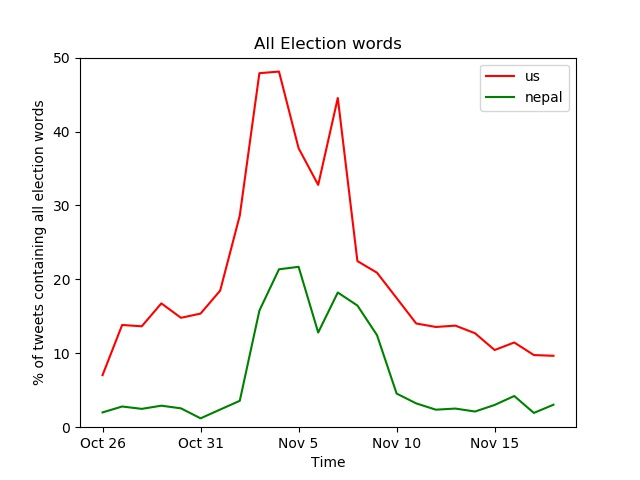
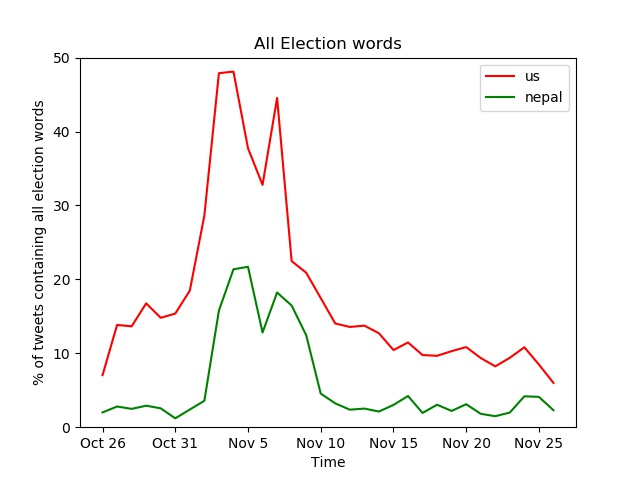
Update word frequency plots to include data until Nov 26

diff --git a/process.py b/process.py
@@ -183,7 +183,7 @@ def plotCommonWords():
         percentageList_us = [round(100 * (item1 / item2), 2) for item1, item2 in zip(commonWordCount_us[word], tweetCount_us)]
         percentageList_nepal = [round(100 * (item1 / item2), 2) for item1, item2 in zip(commonWordCount_nepal[word], tweetCount_nepal)]
         f = plt.figure()
-        plt.xticks([0, 5, 10, 15, 20], ['oct 26', 'oct 31', 'nov 5', 'nov 10', 'nov 15', 'nov 20'])
+        plt.xticks([0, 5, 10, 15, 20, 25, 30], ['oct 26', 'oct 31', 'nov 5', 'nov 10', 'nov 15', 'nov 20', 'nov 25'])
         plt.xlabel('time')
         title = word
         plt.title(title)
@@ -218,7 +218,7 @@ def plotCommonWords_all():
         percentageList_us.append(percent2)
     print(percentageList_nepal)
     print(percentageList_us)
-    plt.xticks([0, 5, 10, 15, 20], ['Oct 26', 'Oct 31', 'Nov 5', 'Nov 10', 'Nov 15', 'Nov 20'])
+    plt.xticks([0, 5, 10, 15, 20, 25, 30], ['Oct 26', 'Oct 31', 'Nov 5', 'Nov 10', 'Nov 15', 'Nov 20', 'Nov 25'])
     plt.xlabel('Time')
     title = 'All Election words'
     plt.title(title)
@@ -268,9 +268,9 @@ def plotSlangs_all():
 # main method
 def main():
     # print_tweetCount(nepaliTweets, 'nepal')
-    give_frequentWords_all(100)
+    # give_frequentWords_all(100)
     # print_slangCount(usTweets, 'us')
-    # print_commonWordCount(usTweets, 'us')
+    # print_commonWordCount(nepaliTweets, 'nepal')
     # plotSlangs_byDecade()
     # plotSlangs_all()
     # print(mean(tweetCount_us))
